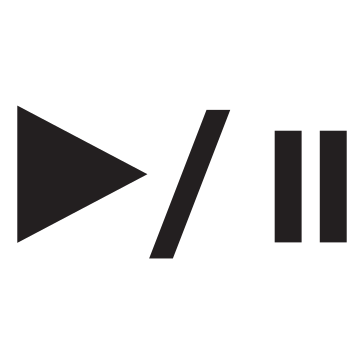
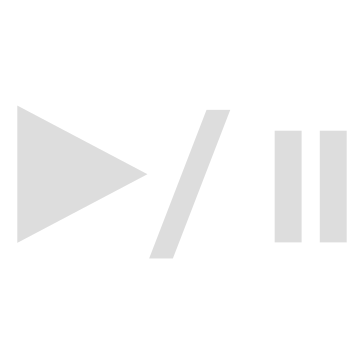
Polished the GUI. Added symbols for note accent and volume.

diff --git a/src/simple_metronome/ui_main_window.py b/src/simple_metronome/ui_main_window.py
@@ -17,9 +17,9 @@ from PySide6.QtGui import (QAction, QBrush, QColor, QConicalGradient,
     QPainter, QPalette, QPixmap, QRadialGradient,
     QTransform)
 from PySide6.QtWidgets import (QAbstractSpinBox, QApplication, QFrame, QGroupBox,
-    QHBoxLayout, QLabel, QMainWindow, QMenu,
-    QMenuBar, QPushButton, QSizePolicy, QSlider,
-    QSpacerItem, QSpinBox, QVBoxLayout, QWidget)
+    QHBoxLayout, QMainWindow, QMenu, QMenuBar,
+    QPushButton, QSizePolicy, QSlider, QSpacerItem,
+    QSpinBox, QVBoxLayout, QWidget)
 
 class Ui_MainWindow(object):
     def setupUi(self, MainWindow):
@@ -424,10 +424,12 @@ class Ui_MainWindow(object):
 
         self.verticalLayout_volumeSlider.addWidget(self.slider_volume)
 
-        self.label = QLabel(self.centralwidget)
-        self.label.setObjectName(u"label")
+        self.pushButton_volumeSymbol = QPushButton(self.centralwidget)
+        self.pushButton_volumeSymbol.setObjectName(u"pushButton_volumeSymbol")
+        self.pushButton_volumeSymbol.setMaximumSize(QSize(16, 16))
+        self.pushButton_volumeSymbol.setFlat(True)
 
-        self.verticalLayout_volumeSlider.addWidget(self.label)
+        self.verticalLayout_volumeSlider.addWidget(self.pushButton_volumeSymbol)
 
 
         self.horizontalLayout_4.addLayout(self.verticalLayout_volumeSlider)
@@ -483,9 +485,6 @@ class Ui_MainWindow(object):
         self.action_Preferences.setShortcut(QCoreApplication.translate("MainWindow", u"Ctrl+P", None))
 #endif // QT_CONFIG(shortcut)
         self.action_ShowHidePresets.setText(QCoreApplication.translate("MainWindow", u"Show/Hide Presets", None))
-#if QT_CONFIG(shortcut)
-        self.action_ShowHidePresets.setShortcut(QCoreApplication.translate("MainWindow", u"P", None))
-#endif // QT_CONFIG(shortcut)
 #if QT_CONFIG(tooltip)
         self.pushButton_preset1.setToolTip(QCoreApplication.translate("MainWindow", u"Hold Long to Overwrite", None))
 #endif // QT_CONFIG(tooltip)
@@ -543,7 +542,7 @@ class Ui_MainWindow(object):
 #if QT_CONFIG(tooltip)
         self.slider_volume.setToolTip(QCoreApplication.translate("MainWindow", u"Volume", None))
 #endif // QT_CONFIG(tooltip)
-        self.label.setText(QCoreApplication.translate("MainWindow", u"\U0001f50a", None))
+        self.pushButton_volumeSymbol.setText(QCoreApplication.translate("MainWindow", u"\U0001f50a", None))
         self.menuHelp.setTitle(QCoreApplication.translate("MainWindow", u"&Help", None))
         self.menu_Application.setTitle(QCoreApplication.translate("MainWindow", u"&Application", None))
         self.menuSettings.setTitle(QCoreApplication.translate("MainWindow", u"Settings", None))

diff --git a/src/simple_metronome/main_window.py b/src/simple_metronome/main_window.py
@@ -20,8 +20,8 @@
 from enum import Enum
 import time
 
-from PySide6.QtCore import Qt, QTimer, QUrl
-from PySide6.QtGui import QKeySequence, QShortcut
+from PySide6.QtCore import Qt, QSize, QTimer, QUrl
+from PySide6.QtGui import QIcon, QKeySequence, QPixmap, QShortcut
 from PySide6.QtMultimedia import QSoundEffect
 from PySide6.QtWidgets import QMainWindow, QMessageBox
 import toml
@@ -149,6 +149,20 @@ class MainWindow(QMainWindow, Ui_MainWindow):
         self.action_Preferences.triggered.connect(self.show_settings_dialog)
         self.action_Quit.triggered.connect(self.close)
         self.action_ShowHidePresets.triggered.connect(self.on_toggle_presets_visibility)
+
+        # Exchange the unicode text in some buttons with icons.
+        icon_play_stop = QIcon("images/play-stop-symbol.png")
+        self.pushButton_playStop.setIcon(icon_play_stop)
+        self.pushButton_playStop.setIconSize(self.pushButton_playStop.size() * 0.8)
+        self.pushButton_playStop.setText("")
+        icon_note_accent = QIcon("images/note-accent-symbol.png")
+        self.pushButton_downbeatAccent.setIcon(icon_note_accent)
+        self.pushButton_downbeatAccent.setIconSize(self.pushButton_downbeatAccent.size() * 0.8)
+        self.pushButton_downbeatAccent.setText("")
+        icon_volume_symbol = QPixmap("images/volume-symbol.svg")
+        self.pushButton_volumeSymbol.setIcon(QIcon(icon_volume_symbol))
+        self.pushButton_volumeSymbol.setIconSize(QSize(16, 16))
+        self.pushButton_volumeSymbol.setText("")
 
         # Add global shortcuts.
         self.shortcut_about = QShortcut(QKeySequence("F1"), self)

diff --git a/src/simple_metronome/app.py b/src/simple_metronome/app.py
@@ -11,10 +11,11 @@ def main():
     """Main function."""
     os.environ["QT_SCALE_FACTOR"] = "1.25"
     app = QApplication(sys.argv)
+    app.setStyle("Windows11")
     with open("style.qss", "r", encoding="utf-8") as file:
         app.setStyleSheet(file.read())
     window = MainWindow()
-    icon = QIcon("images/metronome-icon.png")  # Use your icon file path here
+    icon = QIcon("images/metronome-icon.png")
     window.setWindowIcon(icon)
     window.show()
     app.exec()
